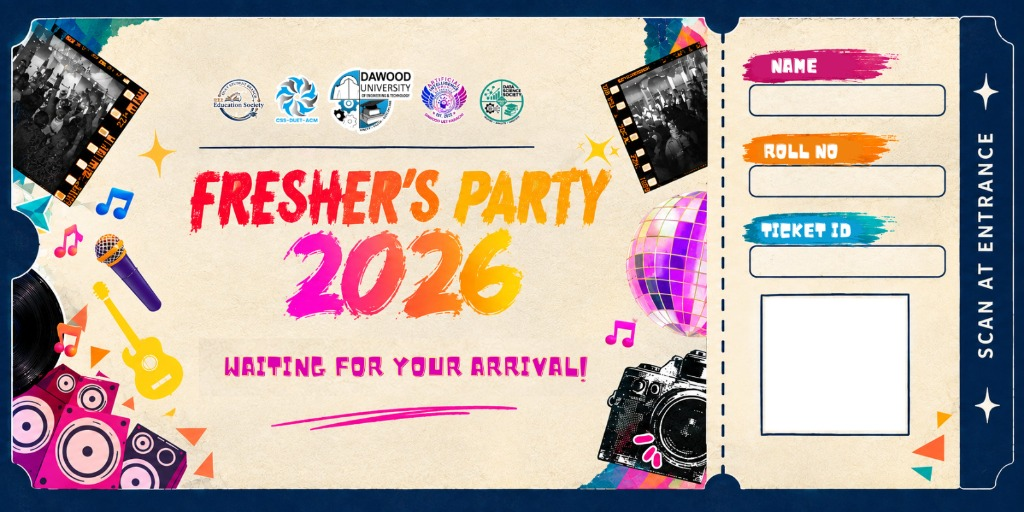
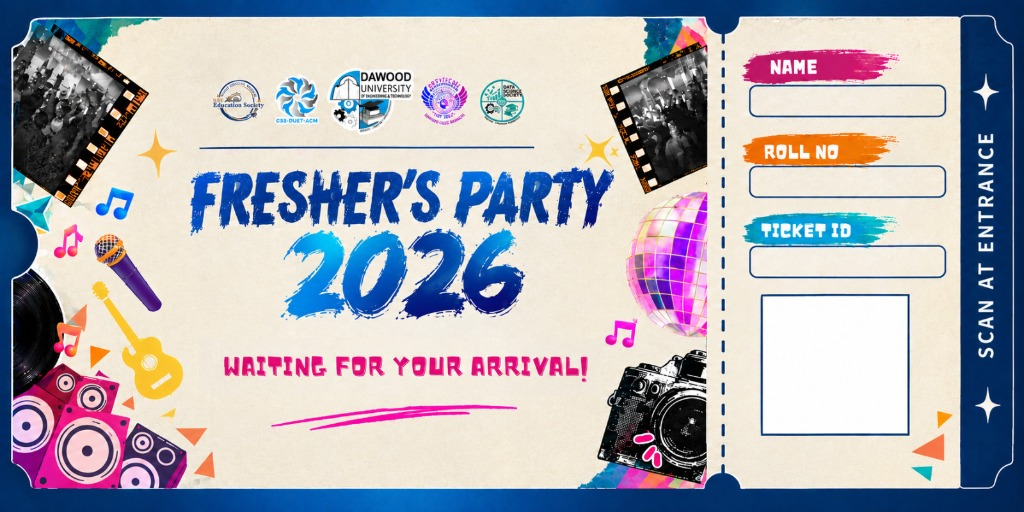
fix: replace pass template with new artwork, precise alignment, and graceful db migration fallback

diff --git a/app/admin/dashboard/permission-management/page.tsx b/app/admin/dashboard/permission-management/page.tsx
@@ -26,6 +26,45 @@ export default function PermissionManagementPage() {
   const [searchQuery, setSearchQuery] = useState('');
   const [error, setError] = useState<string | null>(null);
   const [successToast, setSuccessToast] = useState<string | null>(null);
+  const [migrationNeeded, setMigrationNeeded] = useState(false);
+  const [copiedSql, setCopiedSql] = useState(false);
+
+  const MIGRATION_SQL = `-- Run this in your Supabase Dashboard -> SQL Editor:
+ALTER TABLE admin_users 
+ADD COLUMN IF NOT EXISTS custom_permissions JSONB DEFAULT '{"audit_logs": false, "scanner_logs": false, "manual_entry": false, "user_management": false}'::jsonb;
+
+ALTER TABLE approved_passes 
+ADD COLUMN IF NOT EXISTS created_by_pm BOOLEAN DEFAULT FALSE;
+
+CREATE TABLE IF NOT EXISTS pm_pass_conflicts (
+  id UUID PRIMARY KEY DEFAULT gen_random_uuid(),
+  pm_pass_id UUID REFERENCES approved_passes(id) ON DELETE CASCADE,
+  conflicting_pass_id UUID REFERENCES approved_passes(id) ON DELETE CASCADE,
+  student_roll_no TEXT NOT NULL,
+  student_name TEXT,
+  conflicting_admin_email TEXT NOT NULL,
+  status TEXT NOT NULL DEFAULT 'pending',
+  created_at TIMESTAMPTZ DEFAULT now(),
+  resolved_at TIMESTAMPTZ
+);
+
+ALTER TABLE pm_pass_conflicts ENABLE ROW LEVEL SECURITY;
+
+DO $$ 
+BEGIN
+  IF NOT EXISTS (
+    SELECT 1 FROM pg_policies WHERE tablename = 'pm_pass_conflicts' AND policyname = 'Service role full access on pm_pass_conflicts'
+  ) THEN
+    CREATE POLICY "Service role full access on pm_pass_conflicts" 
+    ON pm_pass_conflicts FOR ALL USING (true);
+  END IF;
+END $$;`;
+
+  const copyMigrationSql = () => {
+    navigator.clipboard.writeText(MIGRATION_SQL);
+    setCopiedSql(true);
+    setTimeout(() => setCopiedSql(false), 3000);
+  };
 
   const fetchUsers = async () => {
     try {
@@ -43,6 +82,11 @@ export default function PermissionManagementPage() {
       const data = await res.json();
       if (data.success) {
         setUsers(data.users || []);
+        if (data.migration_needed) {
+          setMigrationNeeded(true);
+        } else {
+          setMigrationNeeded(false);
+        }
       } else {
         setError(data.message || 'Failed to load permissions');
       }
@@ -161,7 +205,33 @@ export default function PermissionManagementPage() {
         </div>
       </div>
 
-      {error && (
+      {migrationNeeded && (
+        <div className="p-5 rounded-2xl bg-amber-500/10 border-2 border-amber-500/40 text-xs space-y-3 animate-slide-down shadow-lg">
+          <div className="flex flex-col sm:flex-row sm:items-center justify-between gap-3">
+            <div className="flex items-center gap-3">
+              <span className="text-2xl">⚡</span>
+              <div>
+                <h4 className="font-bold text-amber-300 text-sm">Supabase Database Setup Required</h4>
+                <p className="text-amber-200/80 text-xs mt-0.5">
+                  The <code className="bg-surface-900 px-1.5 py-0.5 rounded text-amber-400 font-mono">custom_permissions</code> column has not been added to your database yet. Copy the SQL below and run it in your Supabase SQL Editor to enable saving permissions.
+                </p>
+              </div>
+            </div>
+            <button
+              onClick={copyMigrationSql}
+              className="self-start sm:self-auto px-4 py-2 rounded-xl bg-amber-500 hover:bg-amber-400 text-black font-extrabold transition-all flex items-center gap-2 shadow text-xs whitespace-nowrap"
+            >
+              <span>{copiedSql ? '✓ Copied to Clipboard!' : '📋 Copy Migration SQL'}</span>
+            </button>
+          </div>
+          <div className="p-3 rounded-xl bg-surface-950/90 border border-amber-500/20 font-mono text-[11px] text-surface-300 overflow-x-auto">
+            <p className="text-amber-400 font-bold mb-1 text-[10px] uppercase tracking-wider">// Quick SQL Snippet (Run in Supabase Dashboard -&gt; SQL Editor):</p>
+            <code>ALTER TABLE admin_users ADD COLUMN IF NOT EXISTS custom_permissions JSONB DEFAULT &apos;&#123;&quot;audit_logs&quot;: false, &quot;scanner_logs&quot;: false, &quot;manual_entry&quot;: false, &quot;user_management&quot;: false&#125;&apos;::jsonb;</code>
+          </div>
+        </div>
+      )}
+
+      {error && !migrationNeeded && (
         <div className="p-4 rounded-xl bg-danger-500/10 border border-danger-500/30 text-danger-300 text-xs">
           ⚠ {error}
         </div>

diff --git a/lib/pass-generator.ts b/lib/pass-generator.ts
@@ -68,9 +68,9 @@ export async function generatePassPDF(student: PassStudent): Promise<string> {
   doc.addImage(templateBase64, 'JPEG', 0, 0, 200, 100);
 
   // Center horizontal position for the right-stub text boxes
-  const centerX = 165.5;
+  const centerX = 165.45;
 
-  // 1. NAME BOX
+  // 1. NAME BOX (bounds: Y=[16.60 .. 22.66] mm, Center: 19.63 mm)
   doc.setFont('helvetica', 'bold');
   const cleanName = student.name.trim().toUpperCase();
   if (cleanName.length > 22) {
@@ -81,27 +81,26 @@ export async function generatePassPDF(student: PassStudent): Promise<string> {
     doc.setFontSize(9.5);
   }
   doc.setTextColor(20, 25, 40);
-  doc.text(cleanName, centerX, 21.8, { align: 'center' });
+  doc.text(cleanName, centerX, 19.63, { align: 'center', baseline: 'middle' });
 
-  // 2. ROLL NO BOX
+  // 2. ROLL NO BOX (bounds: Y=[32.42 .. 38.48] mm, Center: 35.45 mm)
   doc.setFont('helvetica', 'bold');
   doc.setFontSize(9.5);
   doc.setTextColor(20, 25, 40);
-  doc.text(student.roll_no.trim().toUpperCase(), centerX, 37.6, { align: 'center' });
+  doc.text(student.roll_no.trim().toUpperCase(), centerX, 35.45, { align: 'center', baseline: 'middle' });
 
-  // 3. TICKET ID BOX
+  // 3. TICKET ID BOX (bounds: Y=[48.05 .. 54.10] mm, Center: 51.07 mm)
   doc.setFont('helvetica', 'bold');
   doc.setFontSize(9.5);
   doc.setTextColor(20, 25, 40);
-  doc.text(ticketId, centerX, 53.4, { align: 'center' });
+  doc.text(ticketId, centerX, 51.07, { align: 'center', baseline: 'middle' });
 
-  // 4. QR CODE (precisely centered inside the white dashed-border box)
-  // Measured box bounds in template: x: [148.2 .. 177.7], y: [57.0 .. 85.2] -> Center: (163.0, 71.1)
-  const qrSize = 27.0;
+  // 4. QR CODE (bounds: X=[148.63 .. 177.34], Y=[57.42 .. 84.77] mm -> Center: (163.0, 71.1) mm)
+  const qrSize = 25.5;
   const qrCenterX = 163.0;
   const qrCenterY = 71.1;
-  const qrX = qrCenterX - (qrSize / 2); // 149.5 mm
-  const qrY = qrCenterY - (qrSize / 2); // 57.6 mm
+  const qrX = qrCenterX - (qrSize / 2); // 150.25 mm
+  const qrY = qrCenterY - (qrSize / 2); // 58.35 mm
   doc.addImage(qrDataUrl, 'PNG', qrX, qrY, qrSize, qrSize);
 
   return doc.output('datauristring');

diff --git a/app/api/admin/permissions/route.ts b/app/api/admin/permissions/route.ts
@@ -21,13 +21,30 @@ export async function GET() {
   }
 
   const supabase = createAdminClient();
-  const { data: users, error } = await supabase
+  let users: any[] | null = null;
+  let migrationNeeded = false;
+
+  const { data: rawUsers, error } = await supabase
     .from('admin_users')
     .select('id, name, email, role, is_active, custom_permissions, last_login, created_at')
     .order('created_at', { ascending: true });
 
   if (error) {
-    return NextResponse.json({ success: false, message: error.message }, { status: 500 });
+    if (error.message?.includes('custom_permissions') || (error as any).code === '42703') {
+      migrationNeeded = true;
+      const fallback = await supabase
+        .from('admin_users')
+        .select('id, name, email, role, is_active, last_login, created_at')
+        .order('created_at', { ascending: true });
+      if (fallback.error) {
+        return NextResponse.json({ success: false, message: fallback.error.message }, { status: 500 });
+      }
+      users = fallback.data;
+    } else {
+      return NextResponse.json({ success: false, message: error.message }, { status: 500 });
+    }
+  } else {
+    users = rawUsers;
   }
 
   const sanitizedUsers = (users || []).map((u) => {
@@ -48,7 +65,7 @@ export async function GET() {
     };
   });
 
-  return NextResponse.json({ success: true, users: sanitizedUsers });
+  return NextResponse.json({ success: true, users: sanitizedUsers, migration_needed: migrationNeeded });
 }
 
 /**
@@ -116,6 +133,13 @@ export async function POST(req: NextRequest) {
       .eq('id', userId);
 
     if (updateError) {
+      if (updateError.message?.includes('custom_permissions') || (updateError as any).code === '42703') {
+        return NextResponse.json({
+          success: false,
+          migration_needed: true,
+          message: 'Database setup required: The custom_permissions column does not exist yet. Please run the SQL migration in Supabase SQL editor to create the custom_permissions column before saving.',
+        }, { status: 400 });
+      }
       return NextResponse.json({ success: false, message: updateError.message }, { status: 500 });
     }
 

diff --git a/app/api/admin/passes/route.ts b/app/api/admin/passes/route.ts
@@ -33,7 +33,20 @@ export async function GET(req: NextRequest) {
     if (status !== 'all') query = query.eq('pass_status', status);
     if (search) query = query.or(`roll_no.ilike.%${search}%,name.ilike.%${search}%,section.ilike.%${search}%`);
 
-    const { data, count, error } = await query;
+    let { data, count, error } = await query;
+    if (error && error.message?.includes('created_by_pm')) {
+      let retryQuery = supabase
+        .from('approved_passes')
+        .select('*', { count: 'exact' })
+        .order('created_at', { ascending: false })
+        .range(offset, offset + limit - 1);
+      if (status !== 'all') retryQuery = retryQuery.eq('pass_status', status);
+      if (search) retryQuery = retryQuery.or(`roll_no.ilike.%${search}%,name.ilike.%${search}%,section.ilike.%${search}%`);
+      const retry = await retryQuery;
+      data = retry.data;
+      count = retry.count;
+      error = retry.error;
+    }
     if (error) throw error;
 
     return NextResponse.json({ success: true, passes: data, total: count, is_pm: isPM });

diff --git a/lib/qrcode.ts b/lib/qrcode.ts
@@ -8,7 +8,7 @@ export async function generateQRCode(qrToken: string): Promise<string> {
   const dataUrl = await QRCode.toDataURL(qrToken, {
     errorCorrectionLevel: 'H',
     type: 'image/png',
-    margin: 2,
+    margin: 1,
     width: 300,
     color: {
       dark: '#0f172a',
@@ -25,7 +25,7 @@ export async function generateQRBuffer(qrToken: string): Promise<Buffer> {
   return QRCode.toBuffer(qrToken, {
     errorCorrectionLevel: 'H',
     type: 'png',
-    margin: 2,
+    margin: 1,
     width: 300,
     color: {
       dark: '#0f172a',
